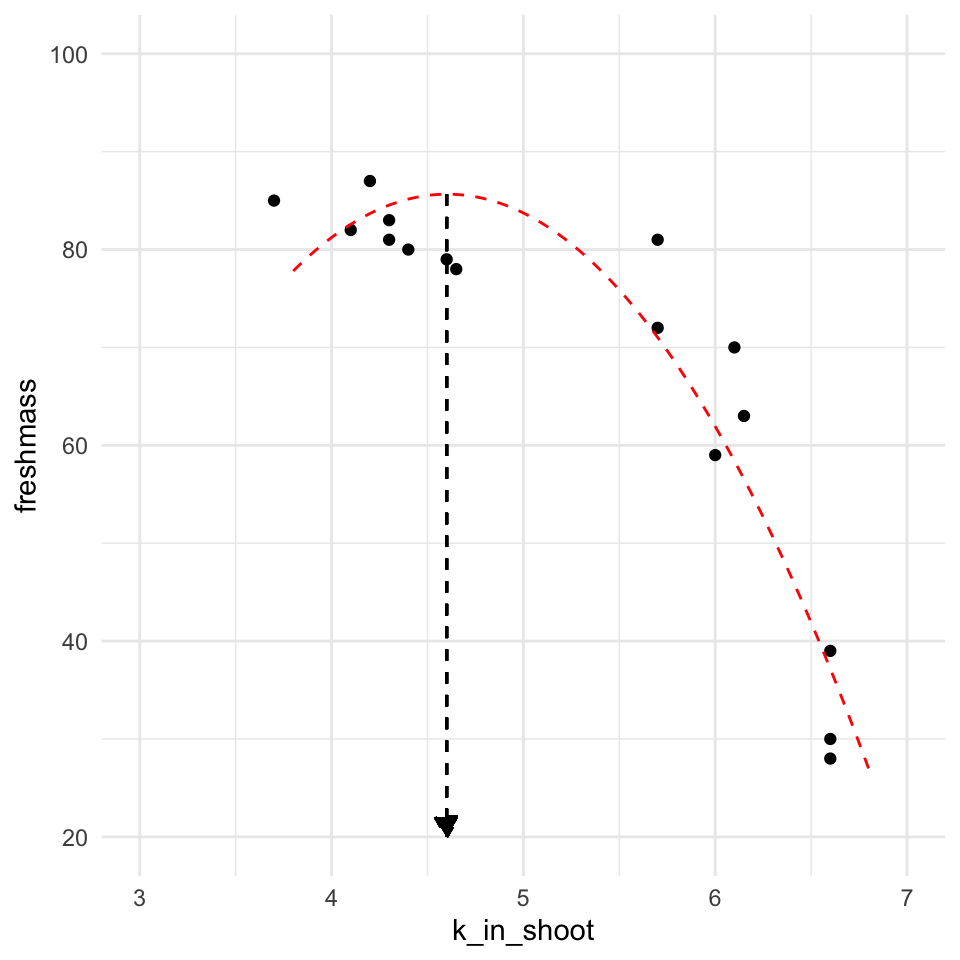
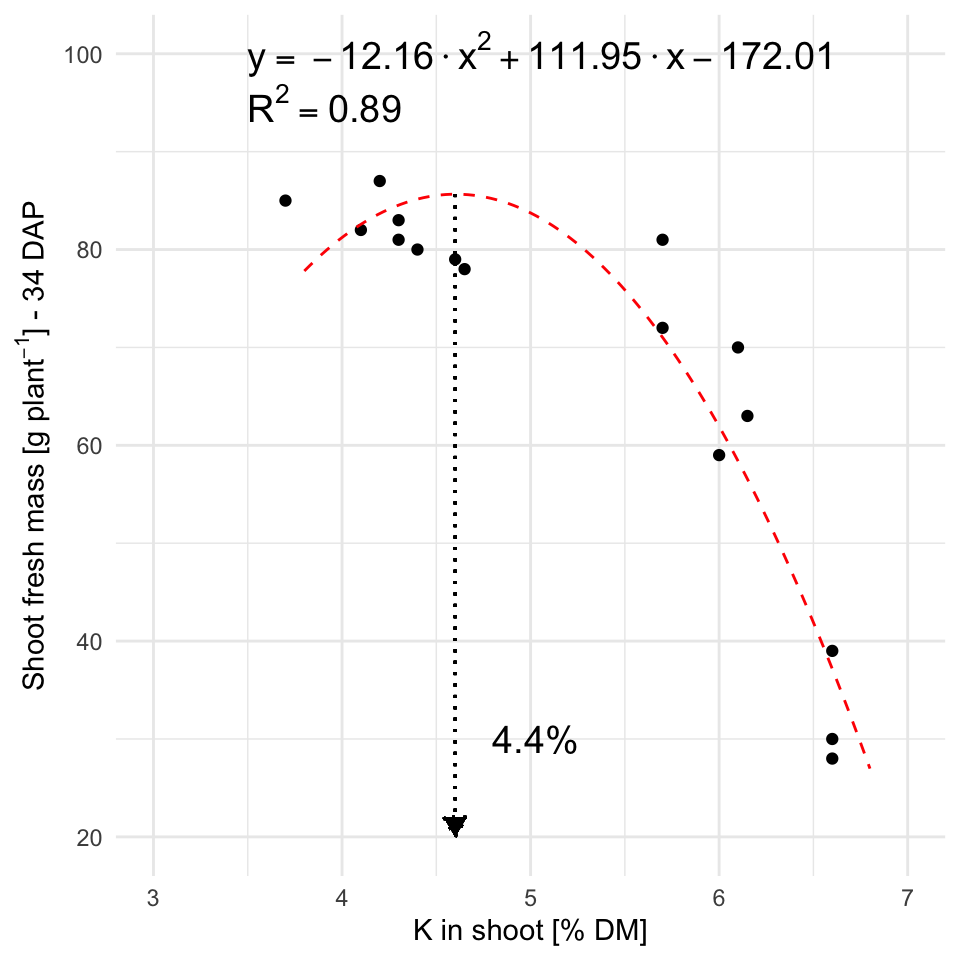
added ideas

diff --git a/docs/app-spielecke.html b/docs/app-spielecke.html
@@ -843,7 +843,7 @@ window.Quarto = {
 </header>
 
 
-<p><em>Letzte Änderung am 11. March 2024 um 20:32:58</em></p>
+<p><em>Letzte Änderung am 11. March 2024 um 20:54:59</em></p>
 <blockquote class="blockquote">
 <p><em>“Denn, um es endlich auf einmal herauszusagen, der Mensch spielt nur, wo er in voller Bedeutung des Worts Mensch ist, und er ist nur da ganz Mensch, wo er spielt.” — Friedrich Schiller</em></p>
 </blockquote>
@@ -860,7 +860,7 @@ window.Quarto = {
 <div id="fig-simple-regression" class="quarto-figure quarto-figure-center quarto-float anchored" data-fig-align="center">
 <figure class="quarto-float quarto-float-fig figure">
 <div aria-describedby="fig-simple-regression-caption-0ceaefa1-69ba-4598-a22c-09a6ac19f8ca">
-<a href="images/eda/zerforschen_regression_linear_02.jpeg" class="lightbox" data-gallery="quarto-lightbox-gallery-2" data-glightbox="description: .lightbox-desc-2"><img src="images/eda/zerforschen_regression_linear_02.jpeg" class="img-fluid quarto-figure quarto-figure-center figure-img" style="width:100.0%"></a>
+<a href="images/eda/zerforschen_regression_linear_02.jpeg" class="lightbox" data-glightbox="description: .lightbox-desc-2" data-gallery="quarto-lightbox-gallery-2"><img src="images/eda/zerforschen_regression_linear_02.jpeg" class="img-fluid quarto-figure quarto-figure-center figure-img" style="width:100.0%"></a>
 </div>
 <figcaption class="quarto-float-caption-bottom quarto-float-caption quarto-float-fig" id="fig-simple-regression-caption-0ceaefa1-69ba-4598-a22c-09a6ac19f8ca">
 Abbildung&nbsp;73.1— Ursprüngliche Abbildung, die nachgebaut werden soll. Zwei lineare Regressionen mit den jeweiligen Regressionsgleichungen.
@@ -899,7 +899,7 @@ Abbildung&nbsp;73.1— Ursprüngliche Abbildung, die nachgebaut werden soll. Zwe
 <span id="cb8-3"><a href="#cb8-3" aria-hidden="true" tabindex="-1"></a>  <span class="fu">theme_minimal</span>() <span class="sc">+</span></span>
 <span id="cb8-4"><a href="#cb8-4" aria-hidden="true" tabindex="-1"></a>  <span class="fu">geom_point</span>() <span class="sc">+</span></span>
 <span id="cb8-5"><a href="#cb8-5" aria-hidden="true" tabindex="-1"></a>  <span class="fu">geom_function</span>(<span class="at">fun =</span> shoot_n_func, <span class="at">color =</span> <span class="st">"red"</span>, <span class="at">linetype =</span> <span class="st">'dashed'</span>) <span class="sc">+</span> </span>
-<span id="cb8-6"><a href="#cb8-6" aria-hidden="true" tabindex="-1"></a>  <span class="fu">labs</span>(<span class="at">x =</span> <span class="st">"N in shoot_n [% DM]"</span>, <span class="at">y =</span> <span class="fu">TeX</span>(r<span class="st">"(shoot_n fresh mass \[g plant$^{-1}$\] - 17 DAP)"</span>)) <span class="sc">+</span></span>
+<span id="cb8-6"><a href="#cb8-6" aria-hidden="true" tabindex="-1"></a>  <span class="fu">labs</span>(<span class="at">x =</span> <span class="st">"N in shoot [% DM]"</span>, <span class="at">y =</span> <span class="fu">TeX</span>(r<span class="st">"(Shoot fresh mass \[g plant$^{-1}$\] - 17 DAP)"</span>)) <span class="sc">+</span></span>
 <span id="cb8-7"><a href="#cb8-7" aria-hidden="true" tabindex="-1"></a>  <span class="fu">scale_x_continuous</span>(<span class="at">breaks =</span> <span class="fu">c</span>(<span class="dv">0</span>, <span class="dv">2</span>, <span class="dv">3</span>, <span class="dv">4</span>, <span class="dv">5</span>, <span class="dv">6</span>), <span class="at">limits =</span> <span class="fu">c</span>(<span class="dv">0</span>, <span class="dv">6</span>)) <span class="sc">+</span></span>
 <span id="cb8-8"><a href="#cb8-8" aria-hidden="true" tabindex="-1"></a>  <span class="fu">scale_y_continuous</span>(<span class="at">breaks =</span> <span class="fu">c</span>(<span class="dv">0</span>, <span class="dv">5</span>, <span class="dv">10</span>, <span class="dv">15</span>, <span class="dv">20</span>, <span class="dv">25</span>), <span class="at">limits =</span> <span class="fu">c</span>(<span class="dv">0</span>, <span class="dv">25</span>)) <span class="sc">+</span></span>
 <span id="cb8-9"><a href="#cb8-9" aria-hidden="true" tabindex="-1"></a>  <span class="fu">annotate</span>(<span class="st">"text"</span>, <span class="at">x =</span> <span class="dv">2</span>, <span class="at">y =</span> <span class="dv">22</span>, <span class="at">hjust =</span> <span class="st">"left"</span>, <span class="at">color =</span> <span class="st">"black"</span>, <span class="at">size =</span> <span class="dv">5</span>, </span>
@@ -915,7 +915,7 @@ Abbildung&nbsp;73.1— Ursprüngliche Abbildung, die nachgebaut werden soll. Zwe
 <div id="fig-zerforschen-shoot_n-01" class="quarto-figure quarto-figure-center quarto-float anchored" data-fig-align="center">
 <figure class="quarto-float quarto-float-fig figure">
 <div aria-describedby="fig-zerforschen-shoot_n-01-caption-0ceaefa1-69ba-4598-a22c-09a6ac19f8ca">
-<a href="app-spielecke_files/figure-html/fig-zerforschen-shoot_n-01-1.png" class="lightbox" data-gallery="quarto-lightbox-gallery-3" data-glightbox="description: .lightbox-desc-3"><img src="app-spielecke_files/figure-html/fig-zerforschen-shoot_n-01-1.png" class="img-fluid quarto-figure quarto-figure-center figure-img" width="480"></a>
+<a href="app-spielecke_files/figure-html/fig-zerforschen-shoot_n-01-1.png" class="lightbox" data-glightbox="description: .lightbox-desc-3" data-gallery="quarto-lightbox-gallery-3"><img src="app-spielecke_files/figure-html/fig-zerforschen-shoot_n-01-1.png" class="img-fluid quarto-figure quarto-figure-center figure-img" width="480"></a>
 </div>
 <figcaption class="quarto-float-caption-bottom quarto-float-caption quarto-float-fig" id="fig-zerforschen-shoot_n-01-caption-0ceaefa1-69ba-4598-a22c-09a6ac19f8ca">
 Abbildung&nbsp;73.2— Visualisierung .
@@ -927,7 +927,7 @@ Abbildung&nbsp;73.2— Visualisierung .
 <div id="fig-simple-regression" class="quarto-figure quarto-figure-center quarto-float anchored" data-fig-align="center">
 <figure class="quarto-float quarto-float-fig figure">
 <div aria-describedby="fig-simple-regression-caption-0ceaefa1-69ba-4598-a22c-09a6ac19f8ca">
-<a href="images/eda/zerforschen_regression_03.jpeg" class="lightbox" data-gallery="quarto-lightbox-gallery-4" data-glightbox="description: .lightbox-desc-4"><img src="images/eda/zerforschen_regression_03.jpeg" class="img-fluid quarto-figure quarto-figure-center figure-img" style="width:100.0%"></a>
+<a href="images/eda/zerforschen_regression_03.jpeg" class="lightbox" data-glightbox="description: .lightbox-desc-4" data-gallery="quarto-lightbox-gallery-4"><img src="images/eda/zerforschen_regression_03.jpeg" class="img-fluid quarto-figure quarto-figure-center figure-img" style="width:100.0%"></a>
 </div>
 <figcaption class="quarto-float-caption-bottom quarto-float-caption quarto-float-fig" id="fig-simple-regression-caption-0ceaefa1-69ba-4598-a22c-09a6ac19f8ca">
 Abbildung&nbsp;73.3— Ursprüngliche Abbildung, die nachgebaut werden soll. Zwei lineare Regressionen mit den jeweiligen Regressionsgleichungen.
@@ -982,15 +982,22 @@ x = \frac{-111.95}{-24.32} = 4.6
 <span id="cb15-4"><a href="#cb15-4" aria-hidden="true" tabindex="-1"></a>  <span class="fu">geom_point</span>() <span class="sc">+</span></span>
 <span id="cb15-5"><a href="#cb15-5" aria-hidden="true" tabindex="-1"></a>  <span class="fu">geom_function</span>(<span class="at">fun =</span> shoot_k_func, <span class="at">color =</span> <span class="st">"red"</span>, <span class="at">linetype =</span> <span class="st">'dashed'</span>,</span>
 <span id="cb15-6"><a href="#cb15-6" aria-hidden="true" tabindex="-1"></a>                <span class="at">xlim =</span> <span class="fu">c</span>(<span class="fl">3.8</span>, <span class="fl">6.8</span>)) <span class="sc">+</span> </span>
-<span id="cb15-7"><a href="#cb15-7" aria-hidden="true" tabindex="-1"></a>  <span class="fu">scale_x_continuous</span>(<span class="at">breaks =</span> <span class="fu">c</span>(<span class="dv">0</span>, <span class="dv">2</span>, <span class="dv">3</span>, <span class="dv">4</span>, <span class="dv">5</span>, <span class="dv">6</span>, <span class="dv">7</span>, <span class="dv">8</span>), <span class="at">limits =</span> <span class="fu">c</span>(<span class="dv">3</span>, <span class="dv">7</span>)) <span class="sc">+</span></span>
-<span id="cb15-8"><a href="#cb15-8" aria-hidden="true" tabindex="-1"></a>  <span class="fu">scale_y_continuous</span>(<span class="at">breaks =</span> <span class="fu">c</span>(<span class="dv">0</span>, <span class="dv">20</span>, <span class="dv">40</span>, <span class="dv">60</span>, <span class="dv">80</span>, <span class="dv">100</span>), <span class="at">limits =</span> <span class="fu">c</span>(<span class="dv">20</span>, <span class="dv">100</span>)) <span class="sc">+</span></span>
-<span id="cb15-9"><a href="#cb15-9" aria-hidden="true" tabindex="-1"></a>  <span class="fu">geom_segment</span>(<span class="fu">aes</span>(<span class="at">x =</span> <span class="fl">4.6</span>, <span class="at">y =</span> <span class="fu">shoot_k_func</span>(<span class="fl">4.6</span>), <span class="at">xend =</span> <span class="fl">4.6</span>, <span class="at">yend =</span> <span class="dv">20</span>), <span class="at">linetype =</span> <span class="st">'dashed'</span>,</span>
-<span id="cb15-10"><a href="#cb15-10" aria-hidden="true" tabindex="-1"></a>                  <span class="at">arrow =</span> <span class="fu">arrow</span>(<span class="at">length =</span> <span class="fu">unit</span>(<span class="fl">0.3</span>, <span class="st">"cm"</span>), <span class="at">type =</span> <span class="st">"closed"</span>))</span></code><button title="In die Zwischenablage kopieren" class="code-copy-button"><i class="bi"></i></button></pre></div>
+<span id="cb15-7"><a href="#cb15-7" aria-hidden="true" tabindex="-1"></a>  <span class="fu">labs</span>(<span class="at">x =</span> <span class="st">"K in shoot [% DM]"</span>, <span class="at">y =</span> <span class="fu">TeX</span>(r<span class="st">"(Shoot fresh mass \[g plant$^{-1}$\] - 34 DAP)"</span>)) <span class="sc">+</span></span>
+<span id="cb15-8"><a href="#cb15-8" aria-hidden="true" tabindex="-1"></a>  <span class="fu">scale_x_continuous</span>(<span class="at">breaks =</span> <span class="fu">c</span>(<span class="dv">0</span>, <span class="dv">2</span>, <span class="dv">3</span>, <span class="dv">4</span>, <span class="dv">5</span>, <span class="dv">6</span>, <span class="dv">7</span>, <span class="dv">8</span>), <span class="at">limits =</span> <span class="fu">c</span>(<span class="dv">3</span>, <span class="dv">7</span>)) <span class="sc">+</span></span>
+<span id="cb15-9"><a href="#cb15-9" aria-hidden="true" tabindex="-1"></a>  <span class="fu">scale_y_continuous</span>(<span class="at">breaks =</span> <span class="fu">c</span>(<span class="dv">0</span>, <span class="dv">20</span>, <span class="dv">40</span>, <span class="dv">60</span>, <span class="dv">80</span>, <span class="dv">100</span>), <span class="at">limits =</span> <span class="fu">c</span>(<span class="dv">20</span>, <span class="dv">100</span>)) <span class="sc">+</span></span>
+<span id="cb15-10"><a href="#cb15-10" aria-hidden="true" tabindex="-1"></a>  <span class="fu">geom_segment</span>(<span class="fu">aes</span>(<span class="at">x =</span> <span class="fl">4.6</span>, <span class="at">y =</span> <span class="fu">shoot_k_func</span>(<span class="fl">4.6</span>), <span class="at">xend =</span> <span class="fl">4.6</span>, <span class="at">yend =</span> <span class="dv">20</span>), <span class="at">linetype =</span> <span class="st">'dotted'</span>,</span>
+<span id="cb15-11"><a href="#cb15-11" aria-hidden="true" tabindex="-1"></a>                  <span class="at">arrow =</span> <span class="fu">arrow</span>(<span class="at">length =</span> <span class="fu">unit</span>(<span class="fl">0.3</span>, <span class="st">"cm"</span>), <span class="at">type =</span> <span class="st">"closed"</span>)) <span class="sc">+</span></span>
+<span id="cb15-12"><a href="#cb15-12" aria-hidden="true" tabindex="-1"></a>  <span class="fu">annotate</span>(<span class="st">"text"</span>, <span class="at">x =</span> <span class="fl">3.5</span>, <span class="at">y =</span> <span class="dv">100</span>, <span class="at">hjust =</span> <span class="st">"left"</span>, <span class="at">color =</span> <span class="st">"black"</span>, <span class="at">size =</span> <span class="dv">5</span>, </span>
+<span id="cb15-13"><a href="#cb15-13" aria-hidden="true" tabindex="-1"></a>           <span class="at">label =</span> <span class="fu">TeX</span>(r<span class="st">"($y = -12.16 \cdot x^2 + 111.95 \cdot x - 172.01$)"</span>)) <span class="sc">+</span></span>
+<span id="cb15-14"><a href="#cb15-14" aria-hidden="true" tabindex="-1"></a>  <span class="fu">annotate</span>(<span class="st">"text"</span>, <span class="at">x =</span> <span class="fl">3.5</span>, <span class="at">y =</span> <span class="dv">95</span>, <span class="at">hjust =</span> <span class="st">"left"</span>, <span class="at">color =</span> <span class="st">"black"</span>, <span class="at">size =</span> <span class="dv">5</span>, </span>
+<span id="cb15-15"><a href="#cb15-15" aria-hidden="true" tabindex="-1"></a>           <span class="at">label =</span> <span class="fu">TeX</span>(r<span class="st">"($R^2 = 0.89$)"</span>)) <span class="sc">+</span></span>
+<span id="cb15-16"><a href="#cb15-16" aria-hidden="true" tabindex="-1"></a>    <span class="fu">annotate</span>(<span class="st">"text"</span>, <span class="at">x =</span> <span class="fl">4.8</span>, <span class="at">y =</span> <span class="dv">30</span>, <span class="at">label =</span> <span class="st">"4.4%"</span>,</span>
+<span id="cb15-17"><a href="#cb15-17" aria-hidden="true" tabindex="-1"></a>           <span class="at">hjust =</span> <span class="st">"left"</span>, <span class="at">size =</span> <span class="dv">5</span>)</span></code><button title="In die Zwischenablage kopieren" class="code-copy-button"><i class="bi"></i></button></pre></div>
 <div class="cell-output-display">
 <div id="fig-zerforschen-shoot_k-01" class="quarto-figure quarto-figure-center quarto-float anchored" data-fig-align="center">
 <figure class="quarto-float quarto-float-fig figure">
 <div aria-describedby="fig-zerforschen-shoot_k-01-caption-0ceaefa1-69ba-4598-a22c-09a6ac19f8ca">
-<a href="app-spielecke_files/figure-html/fig-zerforschen-shoot_k-01-1.png" class="lightbox" data-gallery="quarto-lightbox-gallery-5" data-glightbox="description: .lightbox-desc-5"><img src="app-spielecke_files/figure-html/fig-zerforschen-shoot_k-01-1.png" class="img-fluid quarto-figure quarto-figure-center figure-img" width="480"></a>
+<a href="app-spielecke_files/figure-html/fig-zerforschen-shoot_k-01-1.png" class="lightbox" data-glightbox="description: .lightbox-desc-5" data-gallery="quarto-lightbox-gallery-5"><img src="app-spielecke_files/figure-html/fig-zerforschen-shoot_k-01-1.png" class="img-fluid quarto-figure quarto-figure-center figure-img" width="480"></a>
 </div>
 <figcaption class="quarto-float-caption-bottom quarto-float-caption quarto-float-fig" id="fig-zerforschen-shoot_k-01-caption-0ceaefa1-69ba-4598-a22c-09a6ac19f8ca">
 Abbildung&nbsp;73.4— Visualisierung .
@@ -1356,7 +1363,7 @@ AR =
 <div id="fig-eda-preface-r-01" class="quarto-figure quarto-figure-center quarto-float anchored" data-fig-align="center">
 <figure class="quarto-float quarto-float-fig figure">
 <div aria-describedby="fig-eda-preface-r-01-caption-0ceaefa1-69ba-4598-a22c-09a6ac19f8ca">
-<a href="app-spielecke_files/figure-html/fig-eda-preface-r-01-1.png" class="lightbox" data-gallery="quarto-lightbox-gallery-8" data-glightbox="description: .lightbox-desc-8"><img src="app-spielecke_files/figure-html/fig-eda-preface-r-01-1.png" class="img-fluid quarto-figure quarto-figure-center figure-img" width="672"></a>
+<a href="app-spielecke_files/figure-html/fig-eda-preface-r-01-1.png" class="lightbox" data-glightbox="description: .lightbox-desc-8" data-gallery="quarto-lightbox-gallery-8"><img src="app-spielecke_files/figure-html/fig-eda-preface-r-01-1.png" class="img-fluid quarto-figure quarto-figure-center figure-img" width="672"></a>
 </div>
 <figcaption class="quarto-float-caption-bottom quarto-float-caption quarto-float-fig" id="fig-eda-preface-r-01-caption-0ceaefa1-69ba-4598-a22c-09a6ac19f8ca">
 Abbildung&nbsp;73.5— Im Jahr 1995 waren 37 % der Informatiker Frauen. Heute sind es nur noch 24 %. Der Prozentsatz wird weiter sinken, wenn wir nichts tun. Wir wissen, dass der größte Rückgang von Mädchen in der Informatik im Alter zwischen 13 und 17 Jahren stattfindet. Quelle: <a href="https://girlswhocode.com/about-us">Girls who code</a>
@@ -1991,7 +1998,7 @@ window.document.addEventListener("DOMContentLoaded", function (event) {
 </div>
   </div>
 </footer>
-<script>var lightboxQuarto = GLightbox({"selector":".lightbox","loop":false,"closeEffect":"zoom","descPosition":"bottom","openEffect":"zoom"});
+<script>var lightboxQuarto = GLightbox({"loop":false,"selector":".lightbox","closeEffect":"zoom","openEffect":"zoom","descPosition":"bottom"});
 window.onload = () => {
   lightboxQuarto.on('slide_before_load', (data) => {
     const { slideIndex, slideNode, slideConfig, player, trigger } = data;
